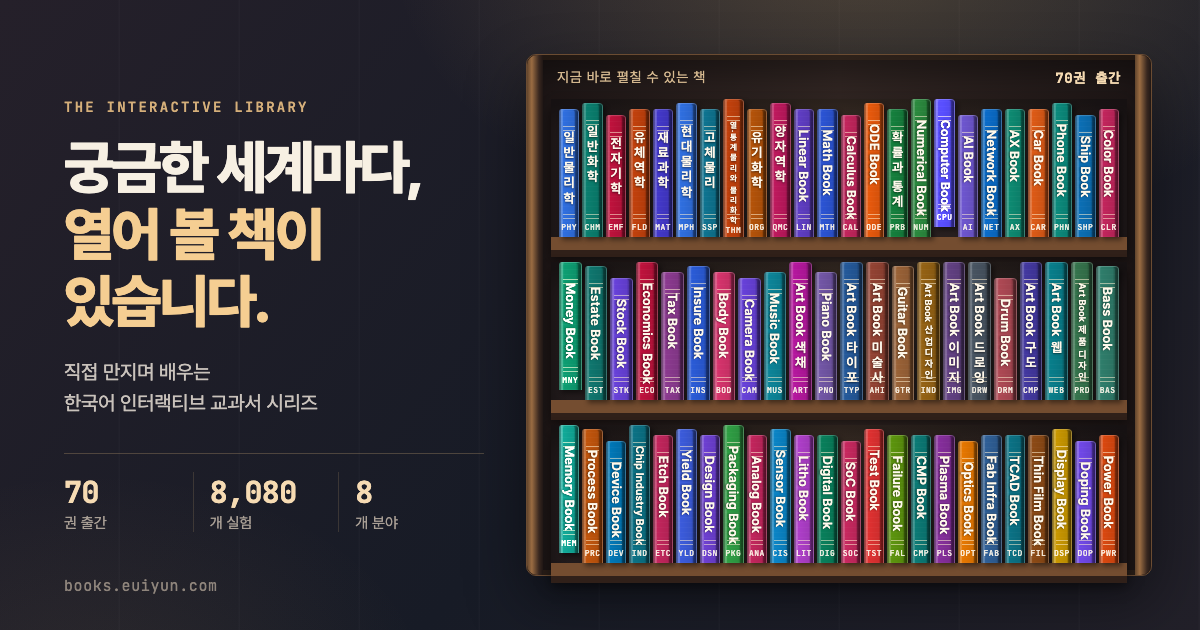
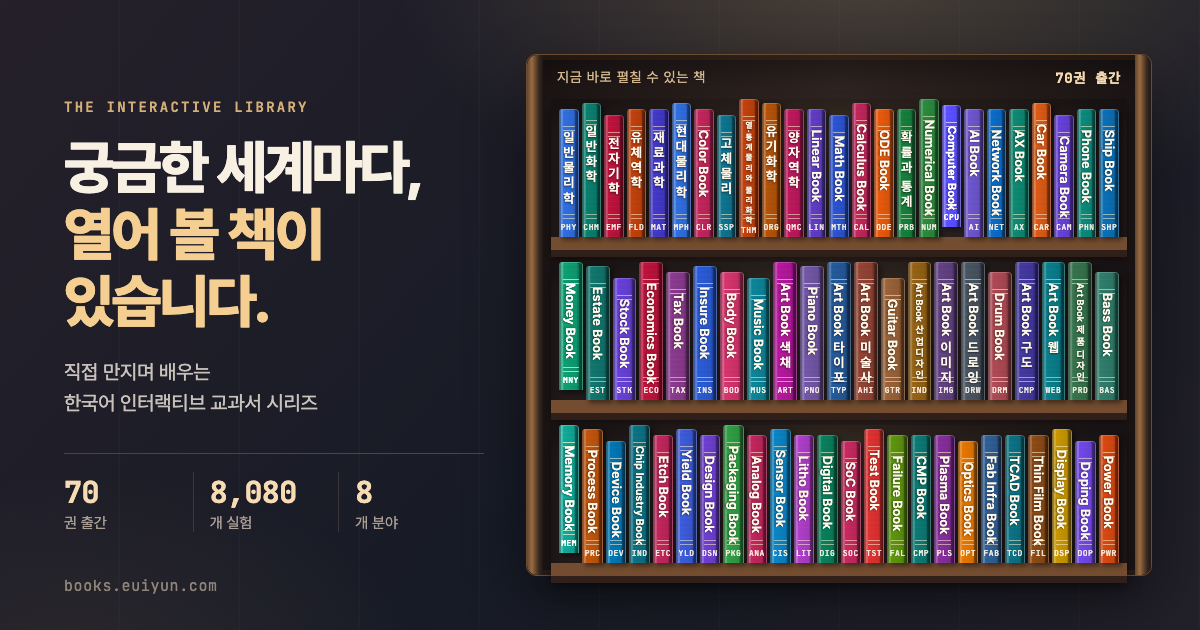
Move ColorBook and CameraBook to their new shelves' fields
- colorbook: electronics -> science, in a new "빛과 색" group on the science
  map with a general-physics link; the phonebook link becomes cross-field
- camerabook: culture -> electronics, joining "기기와 이동 수단" with a
  phonebook link; its art links become cross-field
- Update field and wing descriptions, README, map asset version and og.png

Changed region(s): [[0.4625, 0.1508, 0.9558, 0.6333]]

diff --git a/js/field-maps.js b/js/field-maps.js
@@ -2,13 +2,14 @@
 window.FIELD_MAPS = {
   science: {
     title: "대학에서 배우는 과학과 공학의 기초",
-    desc: "ScienceBooks의 공통 기초 교재입니다. 물리·화학·재료와 열·유동을 공부하고 각 전공의 응용으로 이어갑니다.",
+    desc: "ScienceBooks의 공통 기초 교재입니다. 물리·화학·재료와 열·유동, 빛과 색을 공부하고 각 전공의 응용으로 이어갑니다.",
     // [왼쪽, 위, 열 수]. 화학은 한 줄로 세워 세 묶음이 한 행에 들어가게 합니다.
-    regions: [[12, 12, 2], [486, 12, 1], [742, 12, 2]],
+    regions: [[12, 12, 2], [486, 12, 1], [742, 12, 2], [742, 188, 1]],
     groups: [
       ["물리와 전자기", "Physics", "운동·파동에서 양자·고체, 전기장과 전자기파의 원리", ["general-physics", "modern-physics", "quantum-mechanics", "solid-state", "electromagnetics"]],
       ["화학과 재료", "Chemistry", "원자·분자·반응에서 재료의 구조와 물성까지", ["general-chemistry", "organic-chemistry", "materials-science"]],
       ["열과 유동", "Thermal & Fluids", "열·평형과 상변화, 유동 해석", ["thermal-physics", "fluid-mechanics"]],
+      ["빛과 색", "Color", "빛을 측정하고 기기에서 색을 재현하는 원리", ["colorbook"]],
     ],
     links: [
       ["general-physics", "modern-physics", "빛과 원자의 기초에서 양자역학과 에너지 띠로"],
@@ -23,6 +24,7 @@ window.FIELD_MAPS = {
       ["thermal-physics", "materials-science", "자유 에너지·상태도로 이해하는 상변태와 미세조직"],
       ["general-physics", "fluid-mechanics", "유체의 압력·흐름에서 검사 체적과 관 유동으로"],
       ["thermal-physics", "fluid-mechanics", "기체 운동론·확산·열전달과 유동"],
+      ["general-physics", "colorbook", "빛의 파동·스펙트럼에서 측색과 색공간으로"],
     ],
   },
   math: {
@@ -198,14 +200,13 @@ window.FIELD_MAPS = {
       ["electricbook", "phonebook", "회로가 모여 스마트폰이 되기까지"],
       ["electricbook", "carbook", "전압·전류·회로로 자동차 전장과 전원 이해하기"],
       ["electricbook", "shipbook", "전압·전류·회로로 선박 전기 시스템 이해하기"],
-      ["colorbook", "phonebook", "화면에서 빛과 색 재현하기"],
+      ["phonebook", "camerabook", "스마트폰 카메라 모듈과 전용 카메라의 센서·렌즈 크기 비교"],
       ["carbook", "shipbook", "전동 추진·에너지 관리와 자율 이동 시스템 비교"],
       ["phonebook", "carbook", "배터리 관리·열 설계의 기기별 제약 비교"],
     ],
     groups: [
       ["회로와 전기", "Circuits", "전자 기기를 이루는 회로의 기본 원리", ["electricbook"]],
-      ["빛과 색", "Color", "빛을 측정하고 기기에서 색을 재현하는 원리", ["colorbook"]],
-      ["기기와 이동 수단", "Systems", "스마트폰·자동차·선박의 작동 방식", ["phonebook", "carbook", "shipbook"]],
+      ["기기와 이동 수단", "Systems", "스마트폰·카메라·자동차·선박의 작동 방식", ["phonebook", "camerabook", "carbook", "shipbook"]],
     ],
   },
   money: {
@@ -239,7 +240,7 @@ window.FIELD_MAPS = {
   },
   culture: {
     "title": "세상을 이해하고 표현하는 방법",
-    "desc": "사진·음악에서 미술과 시각 표현, 웹·제품·산업디자인까지.",
+    "desc": "음악에서 미술과 시각 표현, 웹·제품·산업디자인까지.",
     "links": [
       ["musicbook", "guitarbook", "화성·음색을 지판과 연주로 연결하기"],
       ["musicbook", "pianobook", "음정·화성을 건반과 반주로 익히기"],
@@ -255,9 +256,6 @@ window.FIELD_MAPS = {
       ["artbook-type", "artbook-web", "웹 화면의 읽기 흐름 만들기"],
       ["artbook-web", "artbook-product", "화면에서 제품의 경험으로"],
       ["artbook-drawing", "artbook-industrial", "스케치에서 제품의 형태로"],
-      ["camerabook", "artbook-image", "촬영의 원리에서 이미지 표현으로"],
-      ["camerabook", "artbook-composition", "촬영 프레임·자르기와 시선의 흐름"],
-      ["camerabook", "artbook-color", "화이트 밸런스·색 보정과 색의 대비·조화"],
       ["artbook-composition", "artbook-image", "사진의 프레임·자르기와 구도"],
       ["artbook-composition", "artbook-web", "그리드·위계·여백으로 화면 구성하기"],
       ["artbook-color", "artbook-web", "팔레트·대비와 웹 접근성·디자인 토큰"],
@@ -266,14 +264,6 @@ window.FIELD_MAPS = {
       ["artbook-product", "artbook-industrial", "사용자 조사·사용성과 물리적 제품의 인간공학"],
     ],
     "groups": [
-      [
-        "관찰과 기록",
-        "Observe",
-        "카메라의 촬영 조건과 이미지의 관계",
-        [
-          "camerabook"
-        ]
-      ],
       [
         "감각과 표현",
         "Create",
@@ -370,6 +360,10 @@ window.FIELD_MAP_CROSS_LINKS = [
   ["colorbook", "sensorbook", "센서의 색 응답·ISP와 카메라 색 관리"],
   ["colorbook", "camerabook", "화이트 밸런스·색공간과 RAW 색 보정"],
   ["colorbook", "artbook-color", "측색·색공간과 지각·배색의 관계"],
+  ["colorbook", "phonebook", "화면에서 빛과 색 재현하기"],
+  ["camerabook", "artbook-image", "촬영의 원리에서 이미지 표현으로"],
+  ["camerabook", "artbook-composition", "촬영 프레임·자르기와 시선의 흐름"],
+  ["camerabook", "artbook-color", "화이트 밸런스·색 보정과 색의 대비·조화"],
   ["mathbook", "aibook", "벡터·행렬·최적화와 신경망 학습"],
   ["mathbook", "statbook", "확률·기댓값에서 표본과 통계적 판단으로"],
   ["mathbook", "opticsbook", "푸리에·표본화와 회절·광학 해상도"],

diff --git a/paths/index.html b/paths/index.html
@@ -24,7 +24,7 @@
 <link rel="stylesheet" href="/css/field-navigation.css?v=20261017-library-compact">
 <script src="/js/core.js?v=20261017-six-fields" defer>
 </script>
-<script src="/js/field-maps.js?v=20261106-money-books" defer></script>
+<script src="/js/field-maps.js?v=20261107-science-system" defer></script>
 <script src="/js/field.js?v=20261018-card-read" defer></script>
 <script src="/js/discovery.js?v=20261017-six-fields" defer></script>
 <script>try { sessionStorage.removeItem("feedback-admin-session"); } catch (e) {}</script>

diff --git a/README.md b/README.md
@@ -212,7 +212,7 @@ node tools/check-models.cjs
 
 2026-10-18 독자 요청으로 전자기학·열역학·재료공학·플라즈마공학, 산화·박막 증착·CMP·세정·팹 인프라, 기타·피아노·드럼을 다루는 교과서 10권을 후속 집필 예정에 추가했습니다. 확정 출간일은 없으며 기존 공정 전문 교과서와 연결합니다.
 
-[과학·공학 교과서 SciBook](https://science.euiyun.com/)은 형제 저장소 `../science-books`에서 관리합니다. 공개 사이트와 실제 `catalog.json`·`course.json`의 상태를 기준으로 일반화학·일반물리학·현대물리학·고체물리·전자기학·열·통계물리와 물리화학·재료과학·확률과 통계·유체역학·양자역학(출간)을 `books`의 `science` 분야에 등록합니다. 2026-11-06에는 유기화학(25장, 시뮬레이터 155개)을, 2026-11-07에는 양자역학(20장, 시뮬레이터 135개)을 출간 등록했습니다. 확률과 통계는 MathBooks로 옮겨 `math` 분야에 둡니다. 2026-10-30에는 SciBook에서 출간한 전자기학·열·통계물리·재료과학이 기존 기획(`electromagneticsbook`·`thermobook`·`materialsbook`)을 대체하도록 과목 ID(`electromagnetics`·`thermal-physics`·`materials-science`)로 바꿨습니다. SciBook 독자 의견 링크가 과목 ID를 보내기 때문입니다. SciBook 로드맵에서 빠진 정역학·동역학은 삭제했습니다. 장·시뮬레이터 수는 SciBook의 생성 파일 `catalog.js`에서 가져옵니다. 아직 공개하지 않은 과목에는 URL을 추측해 넣지 않습니다. 지식 지도에서는 반도체의 관련 응용으로 연결하며, 소자 물리·이미지 센서 광학 등 기존 전문 교재는 반도체 분야에 유지합니다. 과목은 분야별 진행률·로드맵·독자 의견 목록에서 같은 메타데이터를 사용합니다. `sisterBooks`에는 사이트 전체 의견을 위한 `science` ID만 유지합니다. 과목 상태가 바뀌거나 새 과목을 공개하면 함께 갱신하세요.
+[과학·공학 교과서 SciBook](https://science.euiyun.com/)은 형제 저장소 `../science-books`에서 관리합니다. 공개 사이트와 실제 `catalog.json`·`course.json`의 상태를 기준으로 일반화학·일반물리학·현대물리학·고체물리·전자기학·열·통계물리와 물리화학·재료과학·확률과 통계·유체역학·양자역학(출간)을 `books`의 `science` 분야에 등록합니다. 2026-11-06에는 유기화학(25장, 시뮬레이터 155개)을, 2026-11-07에는 양자역학(20장, 시뮬레이터 135개)을 출간 등록했습니다. 같은 날 SciBook으로 옮긴 색채공학(`colorbook`, `science.euiyun.com/color/`)은 ID를 유지한 채 분야를 `electronics`에서 `science`로 옮기고 지식 지도의 ‘빛과 색’ 묶음에 둡니다. 확률과 통계는 MathBooks로 옮겨 `math` 분야에 둡니다. 2026-10-30에는 SciBook에서 출간한 전자기학·열·통계물리·재료과학이 기존 기획(`electromagneticsbook`·`thermobook`·`materialsbook`)을 대체하도록 과목 ID(`electromagnetics`·`thermal-physics`·`materials-science`)로 바꿨습니다. SciBook 독자 의견 링크가 과목 ID를 보내기 때문입니다. SciBook 로드맵에서 빠진 정역학·동역학은 삭제했습니다. 장·시뮬레이터 수는 SciBook의 생성 파일 `catalog.js`에서 가져옵니다. 아직 공개하지 않은 과목에는 URL을 추측해 넣지 않습니다. 지식 지도에서는 반도체의 관련 응용으로 연결하며, 소자 물리·이미지 센서 광학 등 기존 전문 교재는 반도체 분야에 유지합니다. 과목은 분야별 진행률·로드맵·독자 의견 목록에서 같은 메타데이터를 사용합니다. `sisterBooks`에는 사이트 전체 의견을 위한 `science` ID만 유지합니다. 과목 상태가 바뀌거나 새 과목을 공개하면 함께 갱신하세요.
 
 수학 교과서는 [MathBooks](https://math.euiyun.com/)(형제 저장소 `../math-books`)에서 통합 관리하며 2026-11-06에 `math` 분야(일하는 지식)를 새로 만들었습니다. 책 주소는 `https://math.euiyun.com/{slug}/`이며 `checkout`은 `math-books/{slug}`입니다. MathBook은 ID를 유지한 채 `foundations`로, 확률과 통계는 SciBook에서 가져온 사본인 `probability`로 옮겼습니다(SciBook 주소도 계속 열림). LinearBook·CalculusBook·ODEBook을 출간 상태로, 아직 공개 주소가 없는 NumericalBook을 집필 중(1단계)으로 등록했습니다. 메타데이터와 장·시뮬레이터 수는 `math-books/catalog.js`를 기준으로 하며 장 수에는 용어집을 포함합니다. 지도는 MathBooks 서가의 입문·대수·해석·확률·계산 구분을 따르고, 서가 전체 의견(`mathbooks`)은 `sisterBooks`에 둡니다. 표지(`linear`·`calculus`·`ode`·`numerical`)는 MathBooks와 같은 코드를 씁니다. 같은 날 NumericalBook(`numerical`, 5부 16장 + 용어집, 시뮬레이터 127개)을 출간 상태로 옮기고 읽기 경로 `math-to-simulation`(LinearBook → ODEBook → NumericalBook)을 추가했습니다.
 
@@ -220,7 +220,7 @@ node tools/check-models.cjs
 
 돈 교과서는 [MoneyBooks](https://money.euiyun.com/)(형제 저장소 `../money-books`)에서 통합 관리합니다. 2026-11-06에 MoneyBook·EconomicsBook·StockBook·EstateBook·TaxBook·InsureBook을 개별 사이트에서 옮겼습니다. 책 주소는 `https://money.euiyun.com/{slug}/`(`money`·`economics`·`stock`·`estate`·`tax`·`insure`)이며 `checkout`은 `money-books/{slug}`입니다. 책 ID는 그대로 두었고, 옛 `*book.euiyun.com` 주소는 리다이렉트 없이 내렸습니다. 메타데이터와 장·시뮬레이터 수는 `money-books/catalog.js`를 기준으로 합니다. `money` 분야 지도는 MoneyBooks 서가의 돈과 경제·투자·집·세금·보험 구분을 따르며, 서가 전체 의견(`moneybooks`)은 `sisterBooks`에 둡니다. 같은 날 StockBook에 대표 실험 두 개(살아 있는 호가창 `sim-live`, 생존 편향 백테스트 `sim-surv`)를 추가했습니다.
 
-시스템 교과서는 [SystemBooks](https://system.euiyun.com/)(형제 저장소 `../system-books`)에서 통합 관리합니다. 2026-11-07에 CarBook·ShipBook·PhoneBook·CameraBook을 개별 사이트에서 옮겼습니다. 책 주소는 `https://system.euiyun.com/{slug}/`(`car`·`ship`·`phone`·`camera`)이며 `checkout`은 `system-books/{slug}`입니다. 책 ID와 분야는 그대로 두었고(CameraBook은 `culture`), 옛 `camerabook.euiyun.com` 주소는 리다이렉트 없이 내립니다. CameraBook은 3D 분해 중심으로 개편된 내용에 맞춰 소개·주제·색과 SystemBooks의 `camera` 표지(`js/covers.js`)를 가져왔습니다. 메타데이터와 장·시뮬레이터 수는 `system-books/catalog.js`를 기준으로 합니다. 서가 전체 의견(`systembooks`)은 `sisterBooks`에 둡니다.
+시스템 교과서는 [SystemBooks](https://system.euiyun.com/)(형제 저장소 `../system-books`)에서 통합 관리합니다. 2026-11-07에 CarBook·ShipBook·PhoneBook·CameraBook을 개별 사이트에서 옮겼습니다. 책 주소는 `https://system.euiyun.com/{slug}/`(`car`·`ship`·`phone`·`camera`)이며 `checkout`은 `system-books/{slug}`입니다. 책 ID는 그대로 두고 CameraBook의 분야를 `culture`에서 `electronics`(기기·시스템)로 옮겼으며, 옛 `camerabook.euiyun.com` 주소는 리다이렉트 없이 내립니다. CameraBook은 3D 분해 중심으로 개편된 내용에 맞춰 소개·주제·색과 SystemBooks의 `camera` 표지(`js/covers.js`)를 가져왔습니다. 메타데이터와 장·시뮬레이터 수는 `system-books/catalog.js`를 기준으로 합니다. 서가 전체 의견(`systembooks`)은 `sisterBooks`에 둡니다.
 
 반도체 교과서는 [SemiBooks](https://semi.euiyun.com/)에서 통합 관리합니다. 책 주소는 `https://semi.euiyun.com/{slug}/`이며, 산업 지도는 `industry`, 팹 인프라는 `infra`를 사용합니다. `books.json`의 기존 출간 책 ID는 유지하고 `checkout`은 `semi-books/{slug}`를 가리켜 실험 목록도 통합 저장소에서 수집합니다. 팹 인프라는 집필을 완료해 출간 상태로 등록했으며, 통합 사이트의 독자 의견 링크와 맞춰 ID를 `infrabook`으로 사용합니다. 2026-10-21에는 CMP·세정 교과서를 `cmp` 주소의 `cmpbook`으로 출간 등록하고, SemiBooks의 `cmp` 표지와 읽기 경로 `planarize-and-clean`(ProcessBook → CMPBook → YieldBook)을 추가했습니다. 2026-10-31에는 산화·박막 증착 교과서를 `thinfilm` 주소의 `thinfilmbook`으로, 플라즈마공학 교과서를 `plasma` 주소의 `plasmabook`으로 출간 등록했습니다. PlasmaBook은 SemiBooks에서 반도체 공정 장비를 기준으로 쓴 책이므로 `science`가 아닌 `semiconductor` 분야의 `process` 단계에 두고, 전자기학과는 분야를 넘는 연결로 잇습니다. 두 책에 SemiBooks의 `film`·`plasma` 표지와 읽기 경로 `deposit-with-plasma`(ProcessBook → ThinFilmBook → PlasmaBook)를 추가했습니다. 같은 날 전력 반도체 교과서를 `power` 주소의 `powerbook`으로 출간 등록하고(`device` 단계), SemiBooks의 `power` 표지와 읽기 경로 `switch-the-power`(DeviceBook → PowerBook → PackagingBook)를 추가했습니다. 일부 책만 갱신할 때는 `python3 tools/collect-experiments.py --book infrabook`처럼 `--book`을 반복 지정하면 나머지 책의 실험 스냅샷을 보존합니다.
 
